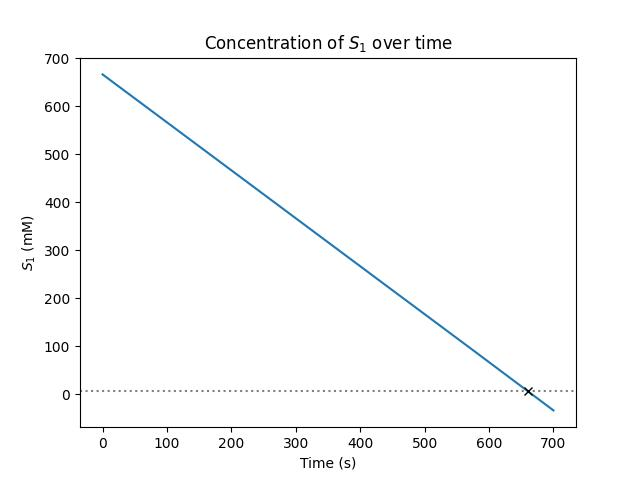
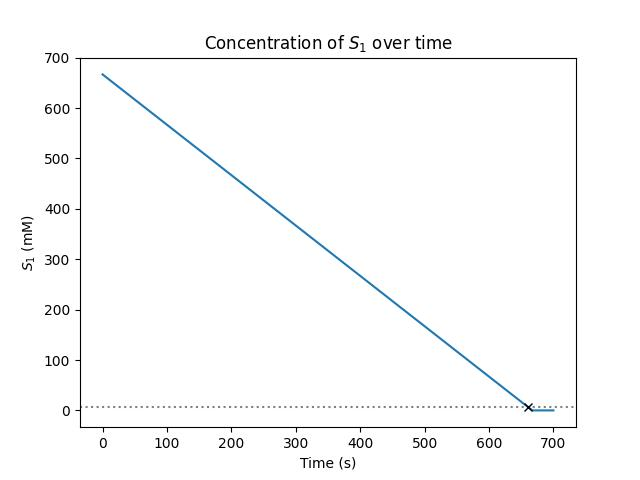
fix negative values!

diff --git a/assignment1/main.py b/assignment1/main.py
@@ -102,6 +102,7 @@ sol = solve_ivp(
     [S1_initial_mM],
     args=(Vmax, Km1),
     events=[safe_limit],
+    max_step=0.001,
 )
 
 

diff --git a/assignment1/notes.md b/assignment1/notes.md
@@ -21,4 +21,4 @@ Lineweaver-Burke plot: since all lines are parrelel this is a ping pong mechanis
 
 It took 660.29 seconds (11.0 minutes) to reach a concentration below 1 g/L.
 
-Linear line, expected exponential decay. Could be that due to high saturation of S2 we have always v of vmax which means the decay is linear with a rate vmax. This is likely also influenced by the design choice to keep S2 constant.
+Linear line, expected exponential decay. Could be that due to high saturation of S2 we have always v of vmax which means the decay is linear with a rate vmax. This is likely also influenced by the design choice to keep S2 constant. We had to manually set max_step to 0.001 to prevent solve_ivp from going to negative concentrations.
